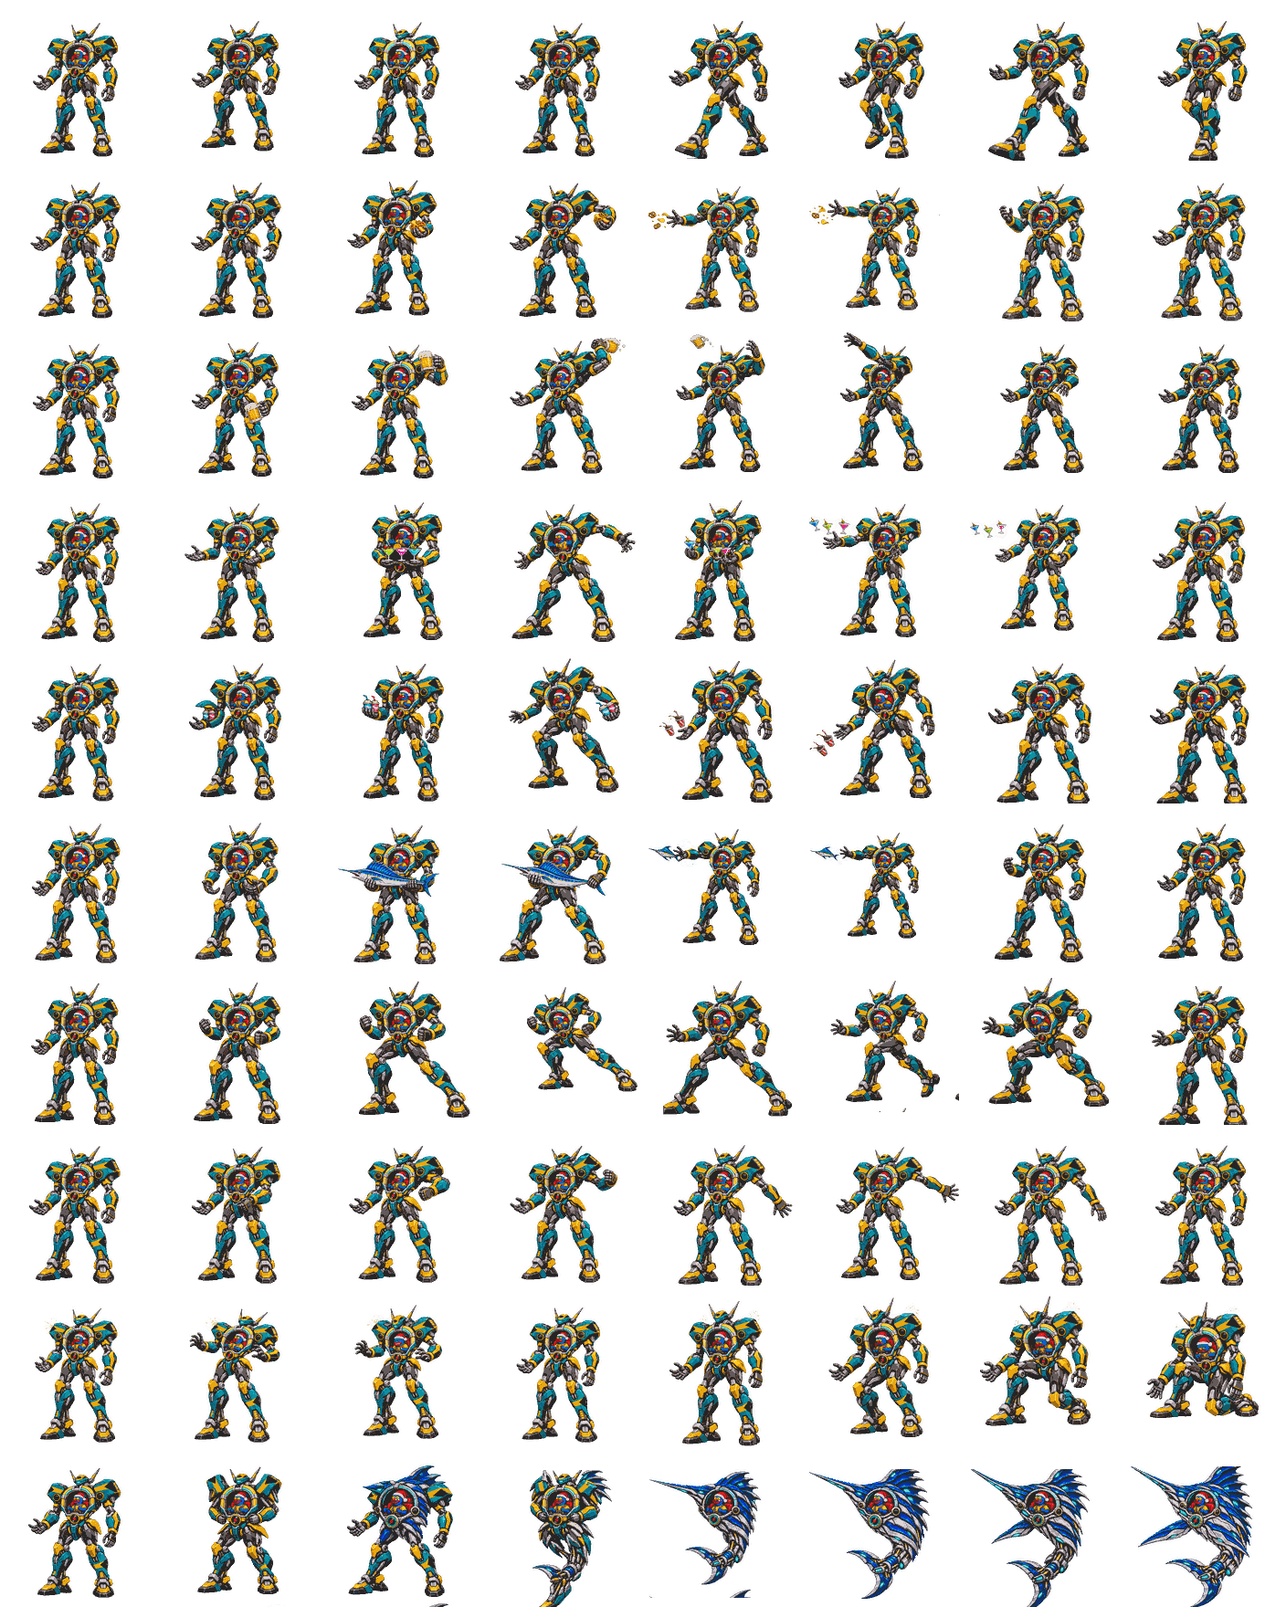
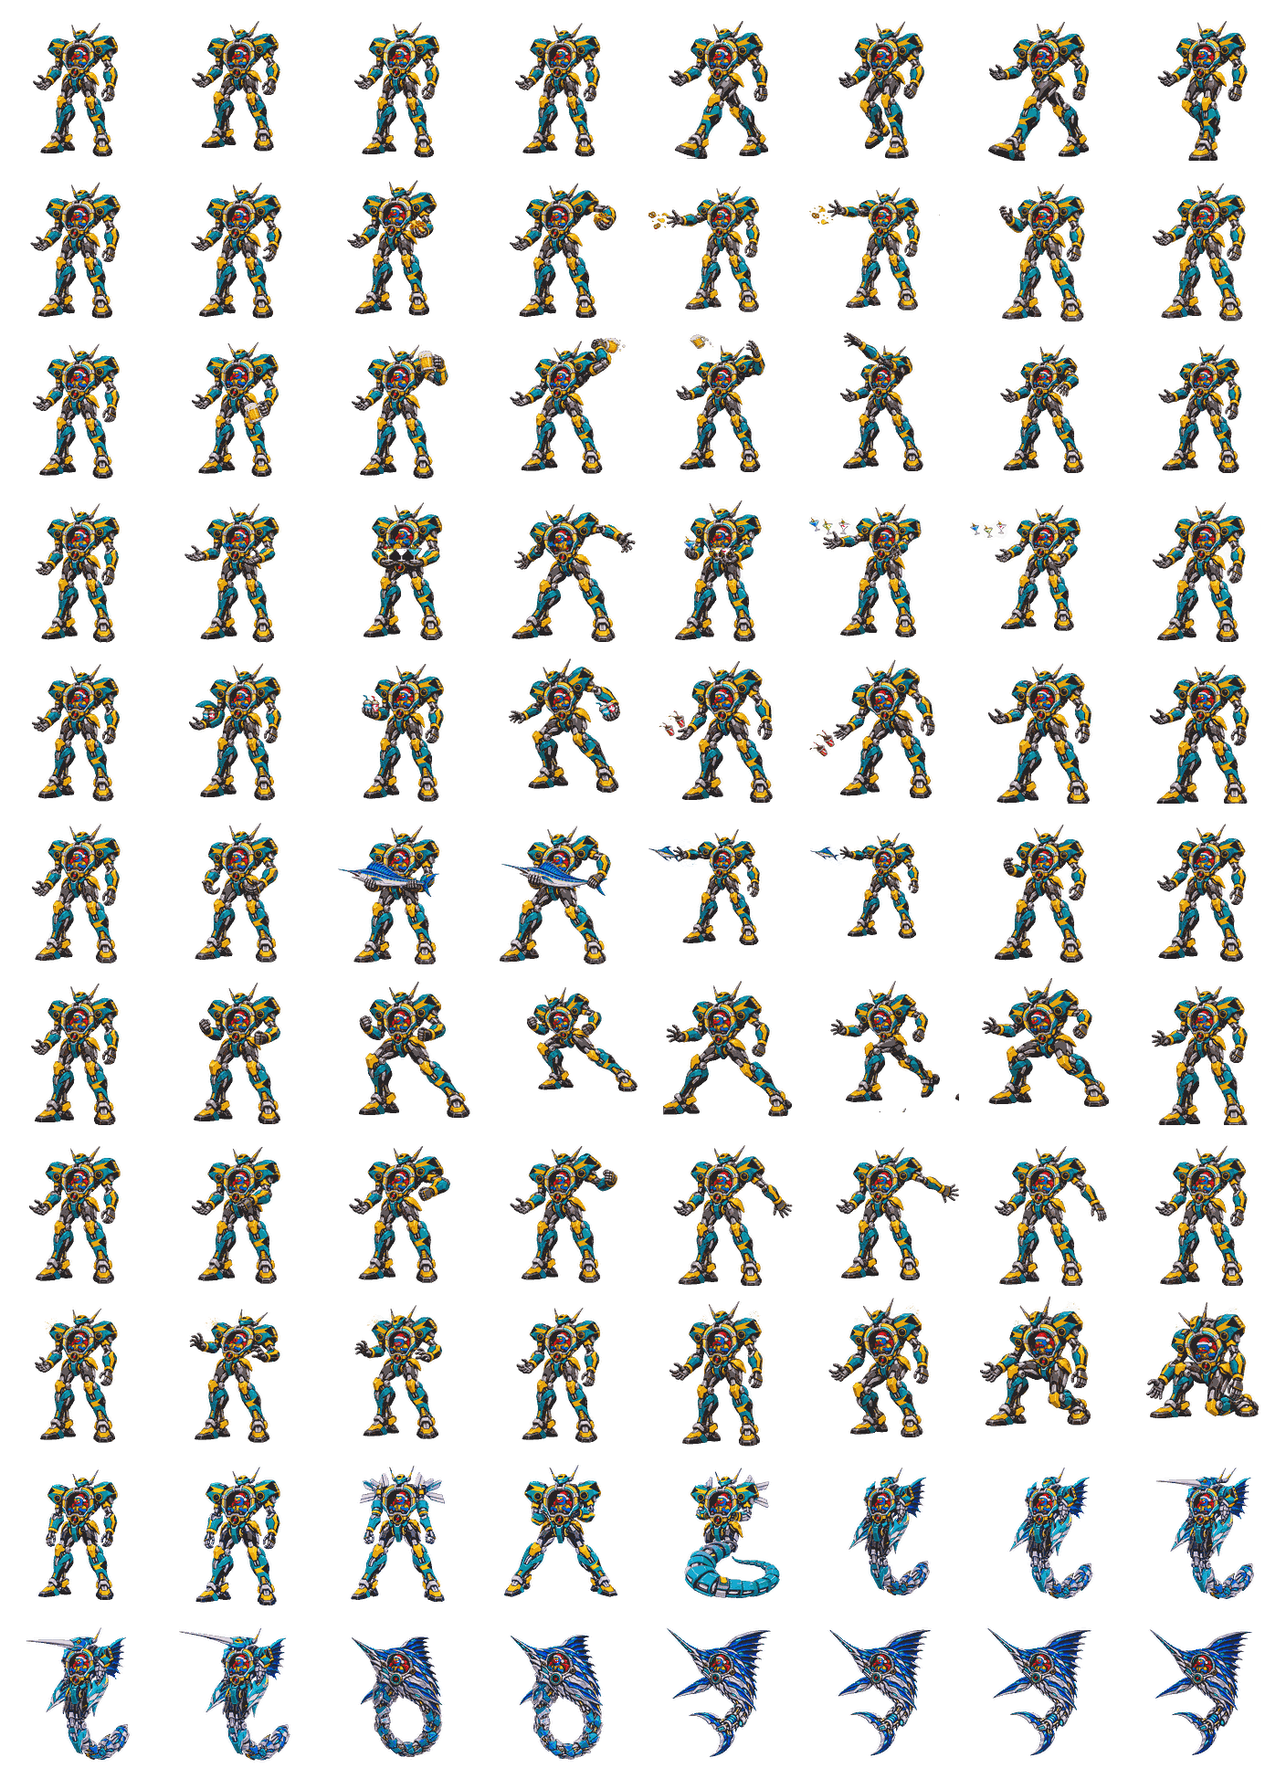
Animate Sprotel standing transformation with Higgsfield keyframes

diff --git a/public/js/boss-morph-field.js b/public/js/boss-morph-field.js
@@ -2,3 +2,6 @@
 // Signed XY pixel offsets: stage, keyframe gap, direction, row, column, axis.
[1 lines of base64/hex data omitted]
 globalThis.CoopBossMorphGuides = [[[[97,121],[76,135]],[[109,112],[77,127]],[[108,112],[80,110]],[[115,105],[82,111]],[[116,105],[83,95]],[[109,111],[80,118]]],[[[113,111],[55,142]],[[118,113],[47,135]],[[92,121],[56,65]],[[89,138],[66,59]],[[81,139],[59,58]],[[92,152],[93,101]]],[[[98,143],[58,154]],[[106,130],[63,154]],[[96,115],[56,142]],[[131,97],[85,73]],[[129,94],[76,52]],[[104,136],[87,109]]],[[[113,85],[67,126]],[[114,70],[61,112]],[[107,85],[64,106]],[[115,90],[63,111]],[[111,91],[58,111]],[[97,105],[62,121]]],[[[109,91],[90,107]],[[114,75],[91,97]],[[113,89],[90,103]],[[122,96],[89,107]],[[120,96],[85,108]],[[113,120],[84,127]]],[[[100,108],[73,141]],[[110,100],[73,142]],[[103,100],[69,143]],[[125,106],[86,112]],[[102,98],[55,108]],[[107,111],[75,145]]],[[[113,114],[90,122]],[[121,114],[97,119]],[[109,111],[93,109]],[[116,112],[93,108]],[[110,111],[85,107]],[[121,120],[105,115]]],[[[101,109],[60,137]],[[100,95],[52,150]],[[106,78],[49,130]],[[119,75],[81,111]],[[112,72],[77,118]],[[111,102],[87,136]]],[[[116,115],[74,138]],[[129,108],[62,138]],[[125,108],[47,143]],[[124,109],[56,148]],[[112,109],[48,132]],[[121,122],[67,151]]],[[[100,107],[64,94]],[[115,96],[148,64]],[[107,113],[66,66]],[[107,122],[52,87]],[[102,121],[49,87]],[[97,127],[71,102]]],[[[103,95],[53,129]],[[117,88],[64,125]],[[106,86],[43,124]],[[111,77],[49,123]],[[107,74],[47,123]],[[99,109],[109,159]]],[[[94,94],[139,75]],[[101,70],[137,69]],[[89,72],[134,66]],[[96,76],[137,69]],[[97,89],[143,81]],[[98,115],[151,96]]]];
+// Sprotel standing transformation: generated by tools/build-sprotel-morph-field.py.
[1 lines of base64/hex data omitted]
+globalThis.CoopSprotelMorphGuides = [[[[87,61],[57,43]],[[87,62],[57,44]],[[87,61],[57,43]],[[87,60],[57,42]],[[87,60],[57,42]],[[87,61],[57,43]],[[85,60],[55,42]],[[87,61],[57,43]],[[87,62],[57,44]],[[88,61],[58,43]],[[87,61],[57,43]],[[88,62],[58,44]],[[86,60],[56,42]],[[88,62],[58,44]],[[87,61],[57,43]],[[86,61],[56,43]],[[86,62],[56,44]],[[87,61],[57,43]]]];

diff --git a/public/js/boss-morph.js b/public/js/boss-morph.js
@@ -1,13 +1,14 @@
 // Render a complete, nearest-neighbor cel from one pose and its displacement field.
 (function (root) {
 'use strict';
-const CELL = 220, GRID = 12, FRAME_TICKS = 2;
-const KEYS = [28, 96, 174, 258, 342, 442];
-const POSES = [[0, 0, 0], [0, 6, 0], [0, 6, 1], [0, 6, 2], [0, 6, 3], [1, 0, 0]];
+function create(options = {}) {
+const CELL = options.cell || 220, GRID = 12, FRAME_TICKS = options.frameTicks || 2;
+const KEYS = options.keys || [28, 96, 174, 258, 342, 442];
+const POSES = options.poses || [[0, 0, 0], [0, 6, 0], [0, 6, 1], [0, 6, 2], [0, 6, 3], [1, 0, 0]];
 const FIELD_SIZE = GRID * GRID * 2;
 const clamp = x => Math.max(0, Math.min(1, x));
-const TOOL_TIMING = [0.42, 0.46, 0.32, 0.50, -0.24];
-const STANCE_TIMING = [-0.30, -0.34, 0.17, 0.38, -0.20];
+const TOOL_TIMING = options.toolTiming || [0.42, 0.46, 0.32, 0.50, -0.24];
+const STANCE_TIMING = options.stanceTiming || [-0.30, -0.34, 0.17, 0.38, -0.20];
 const indices = new Uint8Array(CELL), ratios = new Float32Array(CELL);
 for (let x = 0; x < CELL; x++) {
   const point = x * (GRID - 1) / (CELL - 1);
@@ -89,8 +90,9 @@ function sampleIndex(x, y, direction, strength) {
 }
 
 function generate(index, frame, sheets) {
-  if (!frame.progress || !root.CoopBossMorphField) return null;
-  if (!field) field = Int8Array.from(root.atob(root.CoopBossMorphField), c => c.charCodeAt(0));
+  const encoded = options.fieldSource ? options.fieldSource() : root.CoopBossMorphField;
+  if (!frame.progress || !encoded) return null;
+  if (!field) field = Int8Array.from(root.atob(encoded), c => c.charCodeAt(0));
   const offset = (index * (KEYS.length - 1) + frame.gap) * FIELD_SIZE * 2;
   if (offset + FIELD_SIZE * 2 > field.length) return null;
   const at = frame.gap;
@@ -110,7 +112,7 @@ function generate(index, frame, sheets) {
   if (lastTick === frame.tick) return output.canvas;
 
   const a = readCell(at, fromSheet), b = readCell(at + 1, toSheet);
-  const fieldAnchors = root.CoopBossMorphGuides?.[index];
+  const fieldAnchors = (options.guidesSource ? options.guidesSource() : root.CoopBossMorphGuides)?.[index];
   const [[ax, ay], [hx, hy]] = fieldAnchors?.[at] || [[112, 118], [60, 134]];
   const [[bx, by], [jx, jy]] = fieldAnchors?.[at + 1] || [[ax, ay], [hx, hy]];
   const p = frame.progress, q = 1 - p;
@@ -160,5 +162,16 @@ function generate(index, frame, sheets) {
   return output.canvas;
 }
 
-root.CoopBossMorph = { pose, generate, poses: POSES, keyTicks: KEYS };
+return { pose, generate, poses: POSES, keyTicks: KEYS };
+}
+const sprotel = create({
+  cell: 176, frameTicks: 1,
+  keys: Array.from({ length: 18 }, (_, i) => Math.round(28 + i * 414 / 17)),
+  poses: [[0, 0, 0], ...Array.from({ length: 16 }, (_, i) => [0, 9 + Math.floor(i / 8), i % 8]), [1, 0, 0]],
+  fieldSource: () => root.CoopSprotelMorphField,
+  guidesSource: () => root.CoopSprotelMorphGuides,
+  toolTiming: Array.from({ length: 17 }, (_, i) => [0.20, 0.26, 0.14, -0.16][i % 4]),
+  stanceTiming: Array.from({ length: 17 }, (_, i) => [-0.14, 0.12, 0.18, -0.10][i % 4]),
+});
+root.CoopBossMorph = { ...create(), sprotel };
 })(globalThis);

diff --git a/public/js/render-fx.js b/public/js/render-fx.js
@@ -818,12 +818,18 @@ function drawBossCel(g, b, sx, sy, sprite, row, col) {
 function drawBossTransform(g, b, sx, sy) {
   const phases = M.bosses[b.bi].phases;
   if (M.bosses[b.bi].attacks === 'bar') {
-    const sheet = img(phases[0].sheet);
-    if (ready(sheet)) {
-      shadow(g, sx, sy, b.w * .45);
-      const col = Math.min(7, Math.floor(b.t * 8 / S.BOSS_TRANSFORM_TICKS));
-      drawBossCel(g, { ...b, ph: 0 }, sx, sy, sheet, 9, col);
-    }
+    const morph = root.CoopBossMorph?.sprotel;
+    const frame = morph?.pose(b.t);
+    const [phase, row, col] = frame ? morph.poses[frame.key] : [b.t < 240 ? 0 : 1, 0, 0];
+    const sheets = phases.map(p => img(p.sheet));
+    if (!ready(sheets[phase])) return;
+    const folded = morph?.generate(0, frame, sheets);
+    const progress = ease(S.clamp((b.t - 28) / 414, 0, 1));
+    const width = (phases[0].body[2] - phases[0].body[0]) * (1 - progress) +
+      (phases[1].body[2] - phases[1].body[0]) * progress;
+    shadow(g, sx, sy, width * BS * .45);
+    drawTransformDischarge(g, b, sx, sy, width, '#24d8df');
+    drawBossCel(g, { ...b, ph: phase }, sx, sy, folded || sheets[phase], folded ? 0 : row, folded ? 0 : col);
     return;
   }
   const morph = root.CoopBossMorph;

diff --git a/tools/pack-sprotel-bitcoin.py b/tools/pack-sprotel-bitcoin.py
@@ -6,8 +6,9 @@ Actors face left at runtime; source sheets face right. The pilot's red cockpit
 anchors the poses independently of an extended arm, bill, or tail.
 """
 from pathlib import Path
-from PIL import Image, ImageOps
+from PIL import Image, ImageOps, ImageChops
 from statistics import median
+from functools import lru_cache
 import json
 
 ROOT = Path(__file__).resolve().parents[1]
@@ -17,20 +18,49 @@ CELL, FOOT = 176, 165
 ACTORS = {
     'p1': [('idle', 'walk')] + [(a+'-a', a+'-b') for a in
         ['snacks', 'beer', 'cocktails', 'drinks', 'marlin', 'charge', 'sweep']]
-        + [('hit', 'death'), ('transform-a', 'transform-b')],
+        + [('hit', 'death'), ('hf-standing-keys-0', 'hf-standing-keys-1'),
+           ('hf-standing-keys-2', 'hf-standing-keys-3')],
     'p2': [('idle', 'swim'), ('laser-a', 'laser-b'), ('missile-a', 'missile-b'),
         ('bubbles-a', 'bubbles-b'), None, None, ('charge-a', 'charge-b'),
         ('sweep-a', 'sweep-b'), ('hit', 'death')],
 }
 EFFECTS = {'p1': ['snack-fx', 'beer-fx', 'cocktail-fx', 'drinks-fx', 'marlin-fx', 'impact-fx'],
            'p2': ['laser-fx', 'missile-fx', 'bubble-fx', 'impact-fx']}
+STANDING_KEYS = [('hf-standing-master', 0)] + [('hf-standing-a', i) for i in range(4)] + \
+                [('hf-standing-master', 1)] + [('hf-standing-b', i) for i in range(4)] + \
+                [('hf-standing-master', 2)] + [('hf-standing-c', i) for i in range(4)] + \
+                [('hf-standing-master', 3)]
 
 
+@lru_cache(maxsize=8)
 def frames(phase, name, grid):
     sheet = Image.open(RAW / phase / (name+'.png')).convert('RGBA')
-    return [sheet.crop((round(c*sheet.width/grid), round(r*sheet.height/grid),
+    if name.startswith('hf-standing-'):
+        # Higgsfield's flat magenta export is a sprite matte, not character paint.
+        red, green, blue, alpha = sheet.split()
+        matte = ImageChops.multiply(red.point(lambda v: 255 if v > 160 else 0),
+                                   blue.point(lambda v: 255 if v > 140 else 0))
+        matte = ImageChops.multiply(matte, green.point(lambda v: 255 if v < 110 else 0))
+        # Dark magenta separators use the same matte hue at lower luminance.
+        dark_matte = ImageChops.multiply(red.point(lambda v: 255 if v > 80 else 0),
+                                        blue.point(lambda v: 255 if v > 80 else 0))
+        dark_matte = ImageChops.multiply(dark_matte, green.point(lambda v: 255 if v < 70 else 0))
+        matte = ImageChops.lighter(matte, dark_matte)
+        sheet.putalpha(ImageChops.subtract(alpha, matte))
+    cells = [sheet.crop((round(c*sheet.width/grid), round(r*sheet.height/grid),
                         round((c+1)*sheet.width/grid), round((r+1)*sheet.height/grid)))
             for r in range(grid) for c in range(grid)]
+    if name.startswith('hf-standing-'):
+        # Generated separators occupy the otherwise empty outer cell gutters.
+        # Remove those gutters before downsampling; never trim the actor itself.
+        for cel in cells:
+            edge = 12
+            cel.paste((0, 0, 0, 0), (0, 0, cel.width, edge))
+            cel.paste((0, 0, 0, 0), (0, cel.height-edge, cel.width, cel.height))
+            cel.paste((0, 0, 0, 0), (0, 0, edge, cel.height))
+            cel.paste((0, 0, 0, 0), (cel.width-edge, 0, cel.width, cel.height))
+        return [cel.resize((627, 627), Image.Resampling.LANCZOS) for cel in cells]
+    return cells
 
 
 def actor_frame(im):
@@ -60,9 +90,10 @@ for phase, rows in ACTORS.items():
     for row,names in enumerate(rows):
         if names is None:
             continue
-        cells = sum([frames(phase,name,2) for name in names],[])
-        if phase == 'p1' and row == 9:
-            cells = [cells[i] for i in [0,1,4,2,5,6,3,7]]
+        if phase == 'p1' and row >= 9:
+            cells = [frames(phase,name,2)[index] for name,index in STANDING_KEYS[(row-9)*8:(row-8)*8]]
+        else:
+            cells = sum([frames(phase,name,2) for name in names],[])
         for col,im in enumerate(cells):
             actor.alpha_composite(actor_frame(im),(col*CELL,row*CELL)); count += 1
     # Preserve generated alpha while sharing a palette across all frames.
@@ -89,4 +120,7 @@ for phase, rows in ACTORS.items():
     for path in [OUT/(key+'.webp'),OUT/(key+'-projectiles.png')]:
         print(path.name,path.stat().st_size,'bytes')
 meta={'phases':layouts,'generation':{'actors':'2x2','projectiles':'4x4','tool':'image_gen','phaseCount':2}}
+meta['standingTransformation'] = {'tool':'Higgsfield in Chrome','model':'Seedream 5.0 Lite',
+                                'mode':'Unlimited','sourceGrid':'2x2','authoredKeys':16,
+                                'runtimeKeys':18,'frameRate':60,'sequence':STANDING_KEYS}
 (RAW/'layout.json').write_text(json.dumps(meta,indent=2)+'\n')

diff --git a/tools/build-sprotel-morph-field.py b/tools/build-sprotel-morph-field.py
@@ -1,0 +1,64 @@
+#!/usr/bin/env python3
+"""Build standing Sprotel morph meshes, using the other bosses' mesh algorithm.
+
+Run after pack-sprotel-bitcoin.py with Pillow, NumPy and OpenCV installed.
+Only the Sprotel section is replaced; the original twelve boss fields stay intact.
+"""
+from base64 import b64encode
+import importlib.util
+import json
+from pathlib import Path
+
+import cv2
+import numpy as np
+from PIL import Image
+
+ROOT = Path(__file__).resolve().parents[1]
+spec = importlib.util.spec_from_file_location('boss_fields', ROOT / 'tools/build-boss-morph-field.py')
+base = importlib.util.module_from_spec(spec)
+spec.loader.exec_module(base)
+CELL, GRID = 176, 12
+base.CELL, base.MAX_SHIFT = CELL, 28
+base.GRID_AXIS = np.linspace(0, CELL - 1, GRID, dtype=np.float32)
+base.GRID_X, base.GRID_Y = np.meshgrid(base.GRID_AXIS, base.GRID_AXIS)
+POSES = [[0, 0, 0]] + [[0, 9 + i // 8, i % 8] for i in range(16)] + [[1, 0, 0]]
+SHEETS = [Image.open(ROOT / f'public/assets/bosses/13-last-call-sprotelbitcoin-p{p}.webp').convert('RGBA') for p in (1, 2)]
+CELS = [SHEETS[p].crop((col * CELL, row * CELL, (col + 1) * CELL, (row + 1) * CELL)) for p, row, col in POSES]
+
+
+def guide(cel):
+    # Cockpit is the fixed center; the bill/shoulder hinge moves separately.
+    rgba = np.asarray(cel)
+    y, x = np.mgrid[:CELL, :CELL]
+    red = ((rgba[:, :, 0].astype(float) > rgba[:, :, 1] * 1.8) &
+           (rgba[:, :, 0].astype(float) > rgba[:, :, 2] * 1.5) &
+           (rgba[:, :, 0] > 135) & (rgba[:, :, 3] > 100) &
+           (x > 55) & (x < 120) & (y > 25) & (y < 100))
+    if not red.any():
+        raise ValueError('missing pilot in transformation cel')
+    pilot = [int(np.median(x[red])), int(np.median(y[red]))]
+    return [pilot, [pilot[0] - 30, pilot[1] - 18]]
+
+
+cv2.setNumThreads(1)
+guides = [guide(cel) for cel in CELS]
+features = [base.to_features(cel) for cel in CELS]
+fields = []
+for gap, ((source, source_alpha), (target, target_alpha)) in enumerate(zip(features, features[1:])):
+    controls = [(guides[gap][0], guides[gap + 1][0], 20),
+                (guides[gap][1], guides[gap + 1][1], 15)]
+    outgoing, incoming = base.dense_flow(source, target), base.dense_flow(target, source)
+    # Keep the early standing feet planted, then release the lower joints as
+    # the legs interlock and lift into the curved tail.
+    foot = 165 if gap < 6 else CELL + 28
+    fields.extend((base.mesh(outgoing, incoming, source_alpha, controls, foot=foot, foot_taper=22),
+                   base.mesh(incoming, outgoing, target_alpha, [(b, a, r) for a, b, r in controls],
+                             foot=foot, foot_taper=22)))
+content = b64encode(np.asarray(fields, dtype=np.int8).tobytes()).decode('ascii')
+output = ROOT / 'public/js/boss-morph-field.js'
+marker = '// Sprotel standing transformation: generated by tools/build-sprotel-morph-field.py.'
+original = output.read_text().split(marker)[0].rstrip() + '\n'
+output.write_text(original + marker + '\n' +
+                  f"globalThis.CoopSprotelMorphField = '{content}';\n" +
+                  f"globalThis.CoopSprotelMorphGuides = {json.dumps([guides], separators=(',', ':'))};\n")
+print(f'Sprotel: {len(CELS)} standing keys, {len(fields)} directional meshes, {len(content)} base64 bytes')

diff --git a/tools/build-boss-morph-field.py b/tools/build-boss-morph-field.py
@@ -60,7 +60,7 @@ def dense_flow(source, target):
     return model.calc(source, target, None)
 
 
-def mesh(flow, inverse, alpha, controls):
+def mesh(flow, inverse, alpha, controls, foot=206, foot_taper=28):
     x, y = cv2.remap(flow, GRID_X + PADDING, GRID_Y + PADDING,
                      cv2.INTER_LINEAR).transpose(2, 0, 1)
     reverse = cv2.remap(inverse, GRID_X + PADDING + x, GRID_Y + PADDING + y,
@@ -83,7 +83,7 @@ def mesh(flow, inverse, alpha, controls):
         influence = (0.84 * np.exp(-distance / (2 * radius ** 2)) * support)[..., None]
         vectors += (axis - vectors) * influence
     # Don't raise a planted foot by dragging its texture toward the cockpit.
-    vectors[..., 1] *= np.clip((206 - GRID_Y) / 28, 0, 1)
+    vectors[..., 1] *= np.clip((foot - GRID_Y) / foot_taper, 0, 1)
     vectors[[0, -1], :] = 0
     vectors[:, [0, -1]] = 0
 

diff --git a/docs/sprotel-bitcoin-phase-one.md b/docs/sprotel-bitcoin-phase-one.md
@@ -6,12 +6,18 @@ The initial tall turquoise/gold jukebox mech preserves the owner's reference pro
 
 At half health, an eight-second mechanical transformation folds it into the supplied cobalt-blue/silver marlin blueprint. The same pilot stays in the open cockpit. Its bill fires fast descending laser lances aimed at the locked target. A matching dorsal pod extends, fires five rapid missiles, and retracts. Deadly bubbles descend from the speaker outlets, then drift in a fan. Aim stays locked after release. All bosses rely on their attack animations and projectiles; explicit warning overlays and alert sounds are absent. The marlin also charges and attacks behind itself with its tail.
 
-Both forms use generated 2×2 source sheets for every mech action; projectiles and impacts use 4×4 sheets. Each ranged attack has eight mech frames, and each projectile/effect has sixteen. The final runtime set contains 136 actor frames (including eight transformation keys) and 160 projectile/effect frames. Idle, locomotion, hit, defeat, charge, and sweep poses are included. Sources and layout are under `art/sprotel-bitcoin/`; `python3 tools/pack-sprotel-bitcoin.py` rebuilds compact lossless WebP actors and indexed PNG effects without redrawing the sources. Actor cells are 176px and effect cells 64px; original bosses keep their existing layouts. The public tree remains below the existing 10 MiB cap.
+Both forms use generated 2×2 source sheets for every mech action; projectiles and impacts use 4×4 sheets. Each ranged attack has eight mech frames, and each projectile/effect has sixteen. The runtime set contains 144 actor frames (including sixteen transformation keys) and 160 projectile/effect frames. Idle, locomotion, hit, defeat, charge, and sweep poses are included. Sources and layout are under `art/sprotel-bitcoin/`; `python3 tools/pack-sprotel-bitcoin.py` rebuilds compact lossless WebP actors and indexed PNG effects without redrawing the sources. Actor cells are 176px and effect cells 64px; original bosses keep their existing layouts. The public tree remains below the existing 10 MiB cap.
+
+## Standing transformation
+
+The standing transition uses Higgsfield in Chrome, Seedream 5.0 Lite at 4K with Unlimited enabled. Four 2×2 source sheets supply sixteen authored mechanical poses, bracketed by the actual phase-one and phase-two idle cels. The cockpit anchors every pose while shoulder plates hinge back, arms retract, legs interlock into the segmented tail, and the bill and dorsal sail deploy. The final form remains upright, matching the phase-two reference.
+
+`python3 tools/build-sprotel-morph-field.py` builds bidirectional displacement meshes after packing (Pillow, NumPy and OpenCV required). The renderer uses the same opaque contour and independently timed armor/stance morph as the other bosses, sampled every tick at 60 Hz during the existing eight-second simulation transition. The original twelve bosses retain their poses, fields and timing. The Sprotel meshes are appended to the existing field script, so this adds no network request. This presentation change leaves the pinned simulation and content fingerprint unchanged.
 
 ## Validation
 
-`npm test` covers both phases, trajectories, fast projectile collision, eight-second transformation, stage-13 victory, saved unlocks and deterministic export/resume. Shared golden scenarios cover the added stage and all eight ranged attacks in Node, Goja and Chromium. `tests/browser-sprotel-bitcoin.cjs` starts stage 13 through the menu and checks playback of every actor/projectile frame. Standard browser, end-to-end, asset, build and budget checks remain applicable.
+`npm test` covers both phases, trajectories, fast projectile collision, eight-second transformation, stage-13 victory, saved unlocks and deterministic export/resume. Shared golden scenarios cover the added stage and all eight ranged attacks in Node, Goja and Chromium. `tests/browser-sprotel-bitcoin.cjs` starts stage 13 through the menu, checks every actor/projectile frame and both standing endpoints, and measures unique interpolated cels across all seventeen transformation gaps. Standard browser, end-to-end, asset, build and budget checks remain applicable.
 
 ## Authoritative server handoff
 
-This is an intended simulation/content change. The committed server bundle, pin, Node/Goja goldens and client/test fingerprints are updated together. After merge, **metaverse-hub must copy the new bundle/pin and update its CoopProto constants**, following `AGENTS.md` and `docs/coop-server-contract.md`. The client will reject an old banked hub authority with `version_mismatch` until that separate handoff is deployed. Local and practice-relay play use this checkout directly.
+The original two-phase stage addition changed simulation/content: its server bundle, pin, Node/Goja goldens and client/test fingerprints were updated together. That release requires **metaverse-hub to copy the bundle/pin and update its CoopProto constants**, following `AGENTS.md` and `docs/coop-server-contract.md`. The client rejects an older banked hub authority with `version_mismatch` until that separate handoff is deployed. Local and practice-relay play use this checkout directly. The later standing-transformation art update does not change those pins or require another server handoff.
